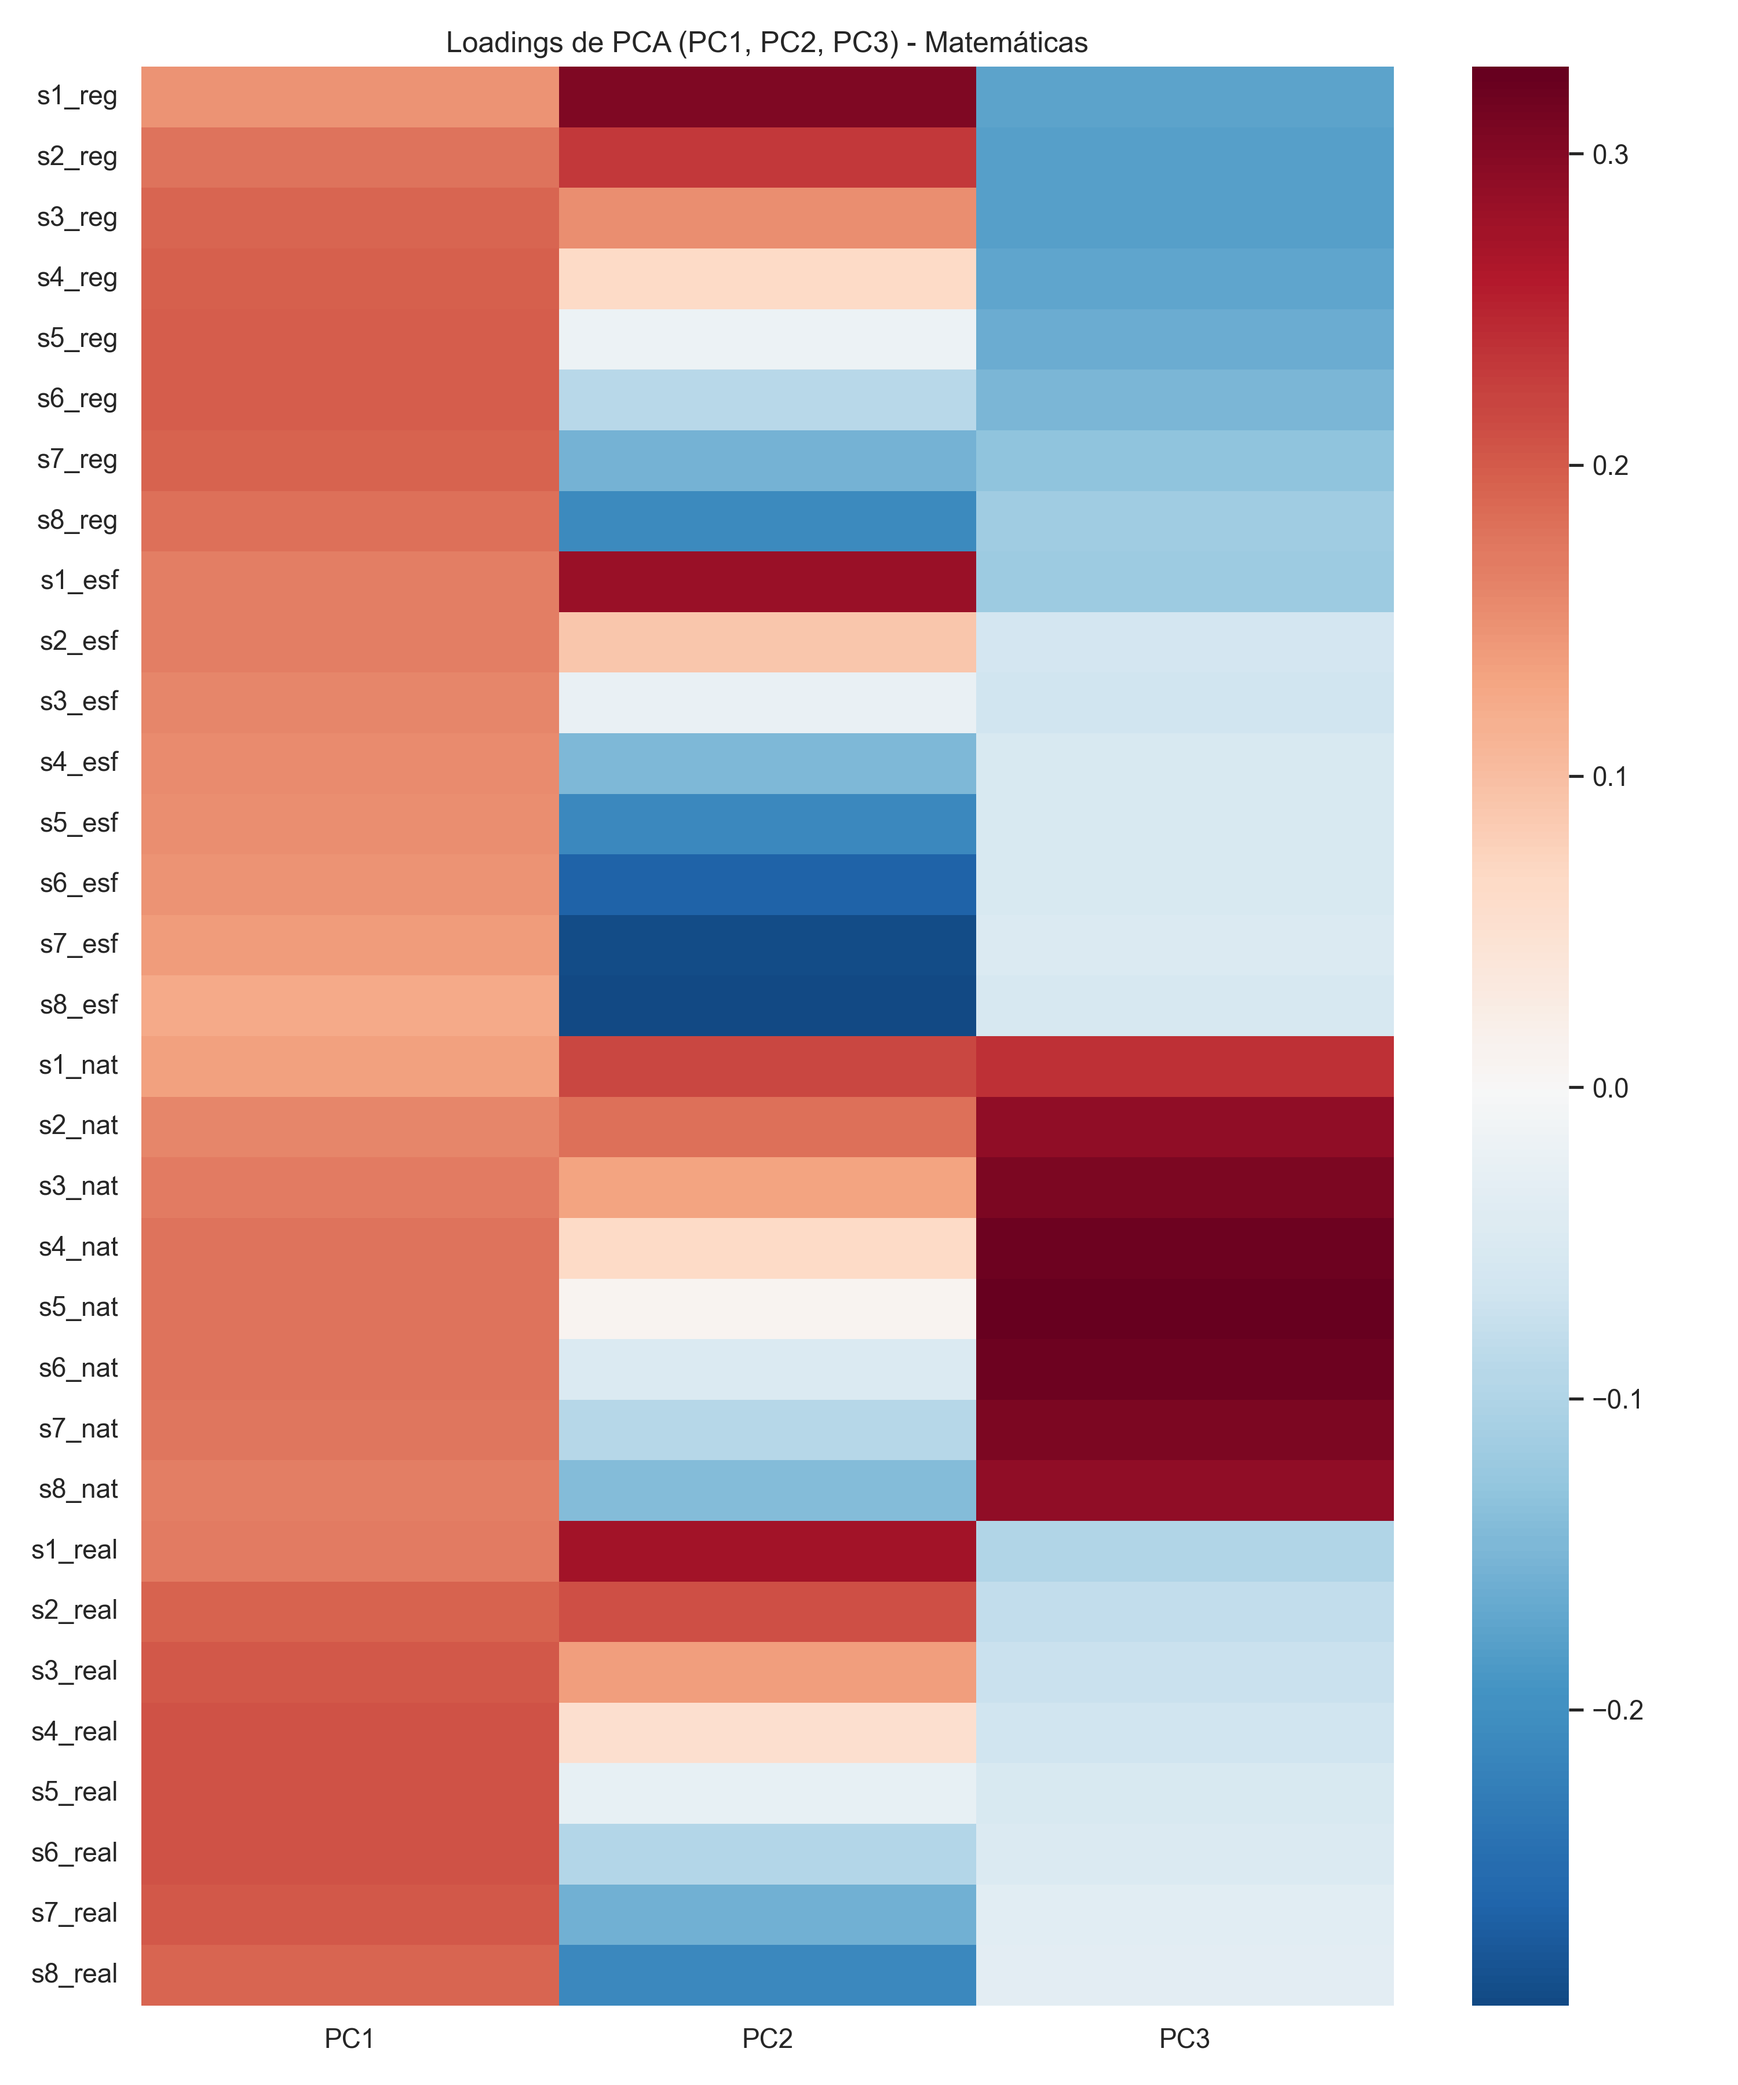
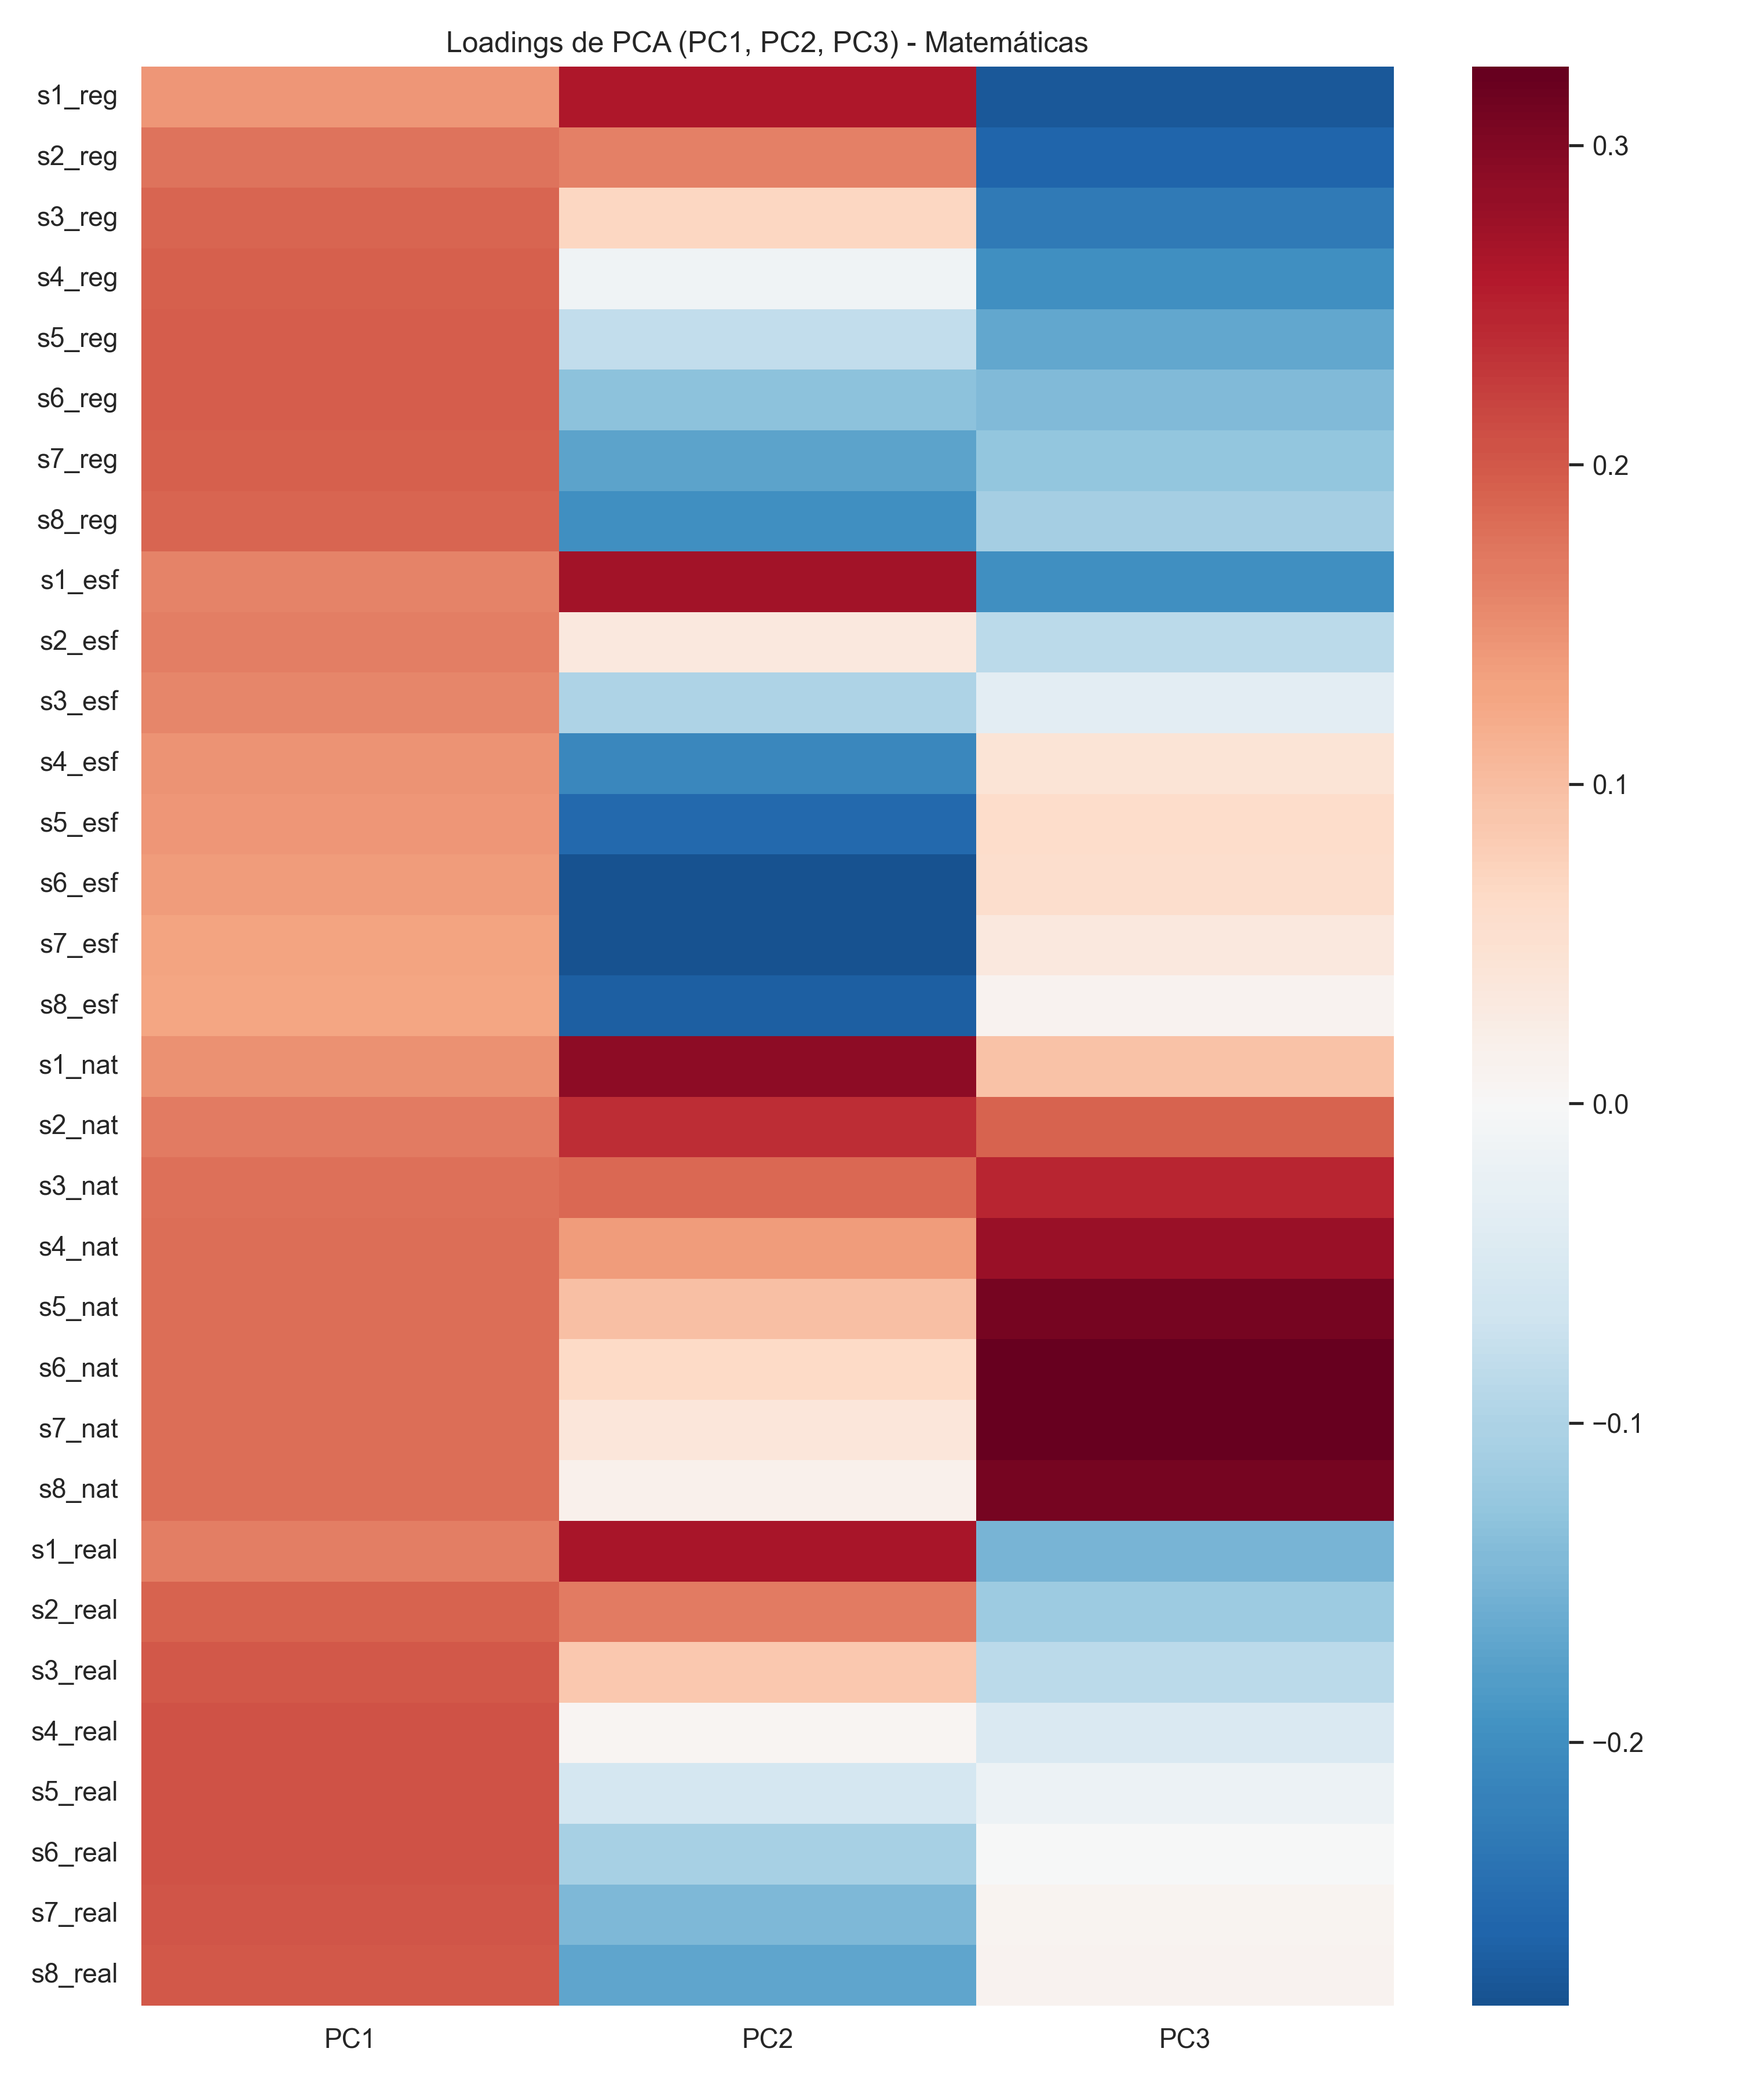
fix: refina PCA filtrando solo alumnos con 8 semestres completos

diff --git a/src/notebooks/13_pca_analisis.py b/src/notebooks/13_pca_analisis.py
@@ -32,16 +32,22 @@ for carrera in carreras:
     
     # Predictores: Excluir metadata y el target
     metadata_cols = ['Cuenta', 'Generación', target_col]
-    X_raw = df.drop(columns=metadata_cols, errors='ignore')
     
-    # 1. Imputación (PCA no acepta NaNs)
-    # Usamos la media para no sesgar drásticamente la distribución
-    imputer = SimpleImputer(strategy='mean')
-    X_imputed = imputer.fit_transform(X_raw)
+    # 1. Filtrar alumnos con datos completos en los 8 semestres
+    # Solo tomamos promedios, esfuerzo y regularidad de s1 a s8
+    # Si falta un dato en este bloque, el alumno no tiene la trayectoria de 8 semestres completa
+    df_pca = df.dropna(subset=[col for col in df.columns if any(s in col for s in [f's{i}' for i in range(1, 9)])])
+    
+    if df_pca.empty:
+        print(f"No hay alumnos con 8 semestres completos para: {carrera}")
+        continue
+
+    X_raw = df_pca.drop(columns=metadata_cols, errors='ignore')
+    y = df_pca[target_col].fillna(20).values
     
     # 2. Estandarización
     scaler = StandardScaler()
-    X_scaled = scaler.fit_transform(X_imputed)
+    X_scaled = scaler.fit_transform(X_raw)
     
     # 3. Aplicar PCA
     pca = PCA(n_components=10) 
